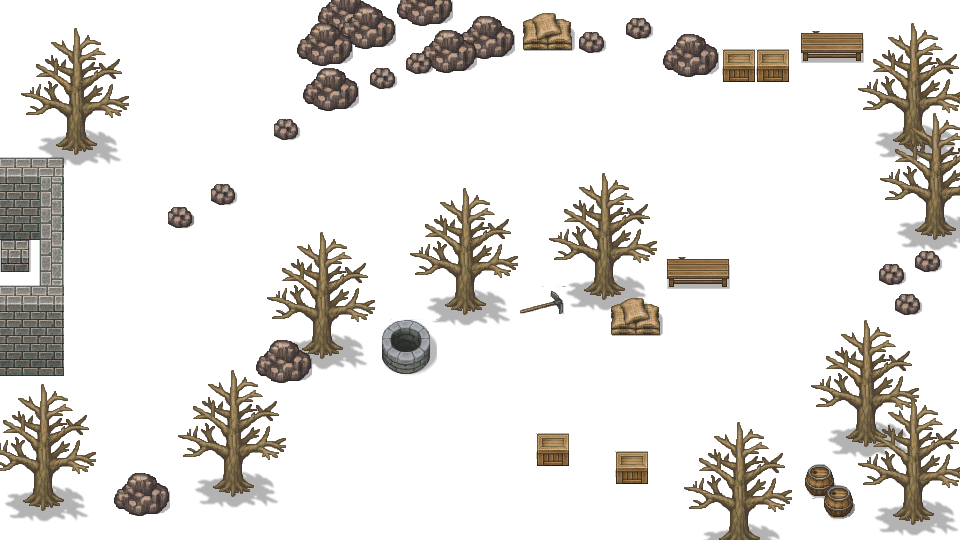
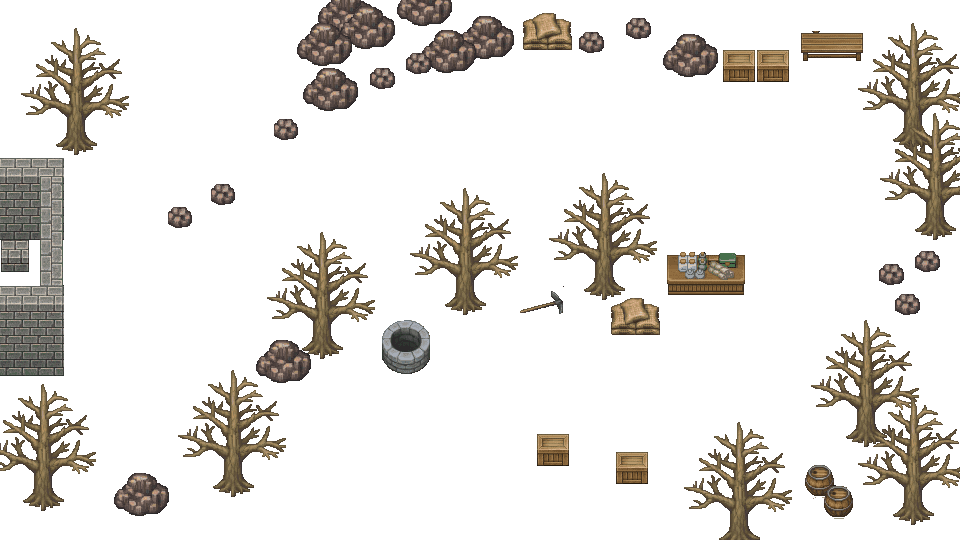
shop open

diff --git a/database.js b/database.js
@@ -69,12 +69,12 @@ const fieldwarpobj=[
     [[0,525,960,15,44,460,40],[0,0,960,15,36,832,473]],[[0,525,960,15,43,460,40]],[],[],[]
 ]
 const eventobj=[    //x,y,width,height,eventnum,...（下部参照）
-    [[12,107,90,102,6,2,-1],[675,448,110,24,4,41,2],[625,390,710,443,6,1,-1,0],[339,186,70,90,2],[378,148,126,10,7],[247,148,63,10,1]],[[282,252,107,116,3,0]],
+    [[12,107,90,102,6,2,-1],[675,448,110,24,4,41,2],[625,390,710,443,6,1,-1,0],[339,186,70,90,2],[378,148,126,10,7],[247,148,63,10,1]],[[282,262,107,106,3,0]],
     [[221,18,300,15,4,45,3]],[[477,322,82,25,6,16,50]],[[199,338,93,26,3,1],[594,199,94,66,3,2],[215,18,490,16,4,44,3],[891,122,35,316,4,43,0]],[],[],[],[],[],
     [[381,453,209,30,4,42,2]],[],[],[],[],[[906,57,35,300,4,42,0],[322,364,95,15,3,3]],[[874,251,33,200,4,42,0]],[],[[278,226,60,15,6,5,42]],[],//10-19
     [],[],[],[],[[670,112,58,20,3,4]],[],[],[[453,329,62,15,6,8,43]],[],[],//20
     [],[[434,76,67,13,3,5]],[],[[688,86,67,15,3,6]],[[456,185,62,16,6,10,44]],[],[[638,487,320,30,4,44,2],[249,154,64,15,3,7],[568,154,66,15,3,8],[513,362,93,20,3,9]],[],[],[],//30
-    [],[],[],[],[],[[455,341,160,18,3,10]],[[448,188,67,15,6,13,45]],[],[],[],//40
+    [[668,289,77,20,3,11]],[],[],[],[],[[455,341,160,18,3,10]],[[448,188,67,15,6,13,45]],[],[],[],//40
     [],[],[],[],[],[],[],[],[],[]//50
 ]
 //eventnum- - - 1 マイピク整理       x,y,width,height,1
